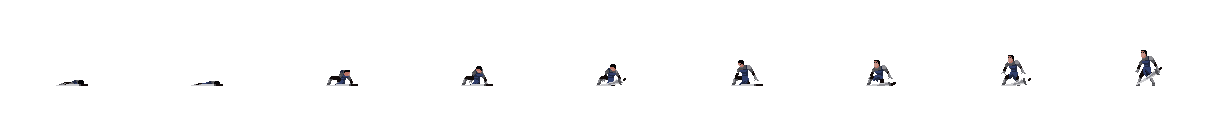
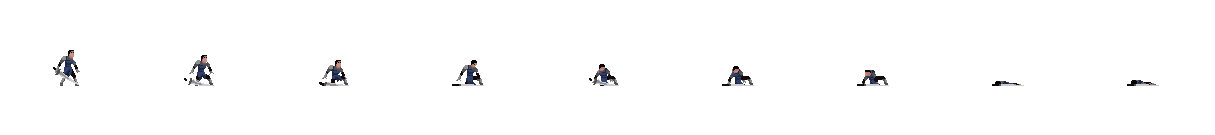
finished main game interactivity added animation for recieving attacks and death animation at the end of game and implemented DOM manipulation for start game page

diff --git a/index.js b/index.js
@@ -1,17 +1,17 @@
-// const gameArea = {
-//     button: document.querySelector('#initializer'),
-//     initial: document.querySelector('.starting'),
-//     game: document.querySelector('.hidden'),
-//     startFightingGame: function() {
-//         this.game.classList.toggle('hidden')
-//         this.initial.classList.add('to-hidden')
-//     }
-// }
-// // console.log(Gamearea.initial)
-// gameArea.button.addEventListener("click", function () {
-//     gameArea.startFightingGame()
-//     // console.log(gameArea)
-// });
+const gameArea = {
+    button: document.querySelector('#initializer'),
+    initial: document.querySelector('.starting'),
+    game: document.querySelector('.hidden'),
+    startFightingGame: function () {
+        this.game.classList.toggle('hidden')
+        this.initial.classList.add('to-hidden')
+    }
+}
+// console.log(Gamearea.initial)
+gameArea.button.addEventListener("click", function () {
+    gameArea.startFightingGame()
+    // console.log(gameArea)
+});
 const fightingCanvas = document.querySelector("#game-canvas");
 const c = fightingCanvas.getContext('2d');
 
@@ -82,8 +82,15 @@ const player1 = new Fighter({
         attack1: {
             ImageSrc: './images/samuraiMack/Attack1.png',
             framesMax: 6,
+        },
+        takehit: {
+            ImageSrc: './images/samuraiMack/Take Hit - white silhouette.png',
+            framesMax: 4,
+        },
+        death: {
+            ImageSrc: './images/samuraiMack/Death.png',
+            framesMax: 6,
         }
-
     }
 })
 const player2 = new Fighter({
@@ -128,6 +135,14 @@ const player2 = new Fighter({
         attack1: {
             ImageSrc: './images/warrior/Attack1.png',
             framesMax: 4,
+        },
+        takehit: {
+            ImageSrc: './images/warrior/GetHit.png',
+            framesMax: 3,
+        },
+        death: {
+            ImageSrc: './images/warrior/death.png',
+            framesMax: 9,
         }
     }
 
@@ -196,20 +211,20 @@ function animation() {
         player2.spriteChange('idle')
     }
     // PLAYER1 JUMPING // PLAYER1 JUMPING // PLAYER1 JUMPING
-    if (player2.velocity.y < -1) {
-        player1.spriteChange('jump')
+    if (player2.velocity.y < -5) {
+        player2.spriteChange('jump')
         // console.log(player1)
-    } else if (player2.velocity.y > 2) {
-        player1.spriteChange('fall')
+    } else if (player2.velocity.y > 5) {
+        player2.spriteChange('fall')
     }
     // COLLISION DETECTION // COLLISION DETECTION // COLLISION DETECTION 
     if (boxCollision({
         box1: player1,
         box2: player2
     }) && player1.isAttacking) {
+        player2.takehit()
         console.log('Beginning to understand collision detection')
         player1.isAttacking = false;
-        player2.health -= 10
         righthitbox.style.width = player2.health + '%'
     }
     if (boxCollision({
@@ -218,7 +233,7 @@ function animation() {
     }) && player2.isAttacking) {
         console.log('Player 2 attack detection')
         player2.isAttacking = false;
-        player1.health -= 10
+        player1.takehit()
         lefthitbox.style.width = player1.health + '%'
     }
     // END GAME // END GAME // END GAME // END GAME
@@ -231,36 +246,42 @@ function animation() {
 animation()
 
 window.addEventListener('keydown', function (event) {
-    switch (event.key) {
-        case 'd':
-            keybugfix.d.pressed = true
-            player1.lastKey = 'd'
-            break;
-        case 'a':
-            keybugfix.a.pressed = true
-            player1.lastKey = 'a'
-            break;
-        case 'w':
-            player1.velocity.y = -25
-            break;
-        case ' ':
-            player1.attack();
-            break;
-        case 'ArrowRight':
-            keybugfix.ArrowRight.pressed = true
-            player2.lastKey = 'ArrowRight'
-            break;
-        case 'ArrowLeft':
-            keybugfix.ArrowLeft.pressed = true
-            player2.lastKey = 'ArrowLeft'
-            break;
-        case 'ArrowUp':
-            player2.velocity.y = -25
-            break;
-        case 'k':
-            player2.attack();
-            // player2.isAttacking = true
-            break;
+    if (!player1.dead) {
+        switch (event.key) {
+            case 'd':
+                keybugfix.d.pressed = true
+                player1.lastKey = 'd'
+                break;
+            case 'a':
+                keybugfix.a.pressed = true
+                player1.lastKey = 'a'
+                break;
+            case 'w':
+                player1.velocity.y = -25
+                break;
+            case ' ':
+                player1.attack();
+                break;
+        }
+    }
+    if (!player2.dead) {
+        switch (event.key) {
+            case 'ArrowRight':
+                keybugfix.ArrowRight.pressed = true
+                player2.lastKey = 'ArrowRight'
+                break;
+            case 'ArrowLeft':
+                keybugfix.ArrowLeft.pressed = true
+                player2.lastKey = 'ArrowLeft'
+                break;
+            case 'ArrowUp':
+                player2.velocity.y = -25
+                break;
+            case 'k':
+                player2.attack();
+                // player2.isAttacking = true
+                break;
+        }
     }
 })
 window.addEventListener('keyup', function (event) {

diff --git a/js/classes.js b/js/classes.js
@@ -108,6 +108,7 @@ class Fighter extends Sprite {
         this.framesElapsed = 0;
         this.framesHold = 3;
         this.sprites = sprites
+        this.dead = false
 
         for (const sprite in this.sprites) {
             sprites[sprite].image = new Image();
@@ -117,8 +118,8 @@ class Fighter extends Sprite {
     }
     update() {
         this.draw();
+        if (!this.dead) this.framesCalculator()
         this.framesElapsed++;
-        this.framesCalculator();
         this.attackBox.position.x = this.position.x + this.attackBox.displacement.x;
         this.attackBox.position.y = this.position.y + this.attackBox.displacement.y;
         c.strokeStyle = "green"
@@ -144,8 +145,23 @@ class Fighter extends Sprite {
         }, 100);
         this.spriteChange('attack1')
     }
+    takehit() {
+        this.health -= 10
+        if (this.health <= 0) {
+            this.spriteChange('death');
+        } else {
+            this.spriteChange('takehit')
+        }
+    }
     spriteChange(sprite) {
+        if (this.image === this.sprites.death.image) {
+            if (this.framesCurrent === this.sprites.death.framesMax - 1)
+                this.dead = true
+            return
+        }
         if (this.image === this.sprites.attack1.image && this.framesCurrent < this.sprites.attack1.framesMax - 1)
+            return;
+        if (this.image === this.sprites.takehit.image && this.framesCurrent < this.sprites.takehit.framesMax - 1)
             return;
         switch (sprite) {
             case 'idle':
@@ -176,6 +192,18 @@ class Fighter extends Sprite {
                 (this.image !== this.sprites.attack1.image)
                 this.image = this.sprites.attack1.image
                 this.framesMax = this.sprites.attack1.framesMax
+                this.framesCurrent = 0
+                break;
+            case 'takehit':
+                (this.image !== this.sprites.takehit.image)
+                this.image = this.sprites.takehit.image
+                this.framesMax = this.sprites.takehit.framesMax
+                this.framesCurrent = 0
+                break;
+            case 'death':
+                (this.image !== this.sprites.death.image)
+                this.image = this.sprites.death.image
+                this.framesMax = this.sprites.death.framesMax
                 this.framesCurrent = 0
                 break;
         }

diff --git a/index.html b/index.html
@@ -8,20 +8,32 @@
     <title>Fighting Game</title>
   </head>
   <body>
-    <!-- <div class="starting">
+    <div class="starting">
       <div class="starting-top">
-        <button id ="initializer">FIGHT!</button>
+        <button id="initializer">FIGHT!</button>
       </div>
       <div class="starting-bottom">
         <div class="instructions">
-          <h1>Instructions:</h1> <br>
-          <h2>Control Player1 with WAD keys to move left right and jump! Attack with spacebar </h2>
-          <h2>Control player 2 with you arrow keys to move left right and jump! Attack with your K key</h2>
-          <p class="instructions-text"><br>
-          The object of the game is to defeat your opponent before the timer runs out, if nobody wins before the timer runs out the player with the most hitpoints by the end will be the winner, if both players have the same hitpoints by the time the timer runs out it is a Tie!</p>
+          <h1>Instructions:</h1>
+          <br />
+          <h2>
+            Control Player1 with WAD keys to move left right and jump! Attack
+            with spacebar
+          </h2>
+          <h2>
+            Control player 2 with you arrow keys to move left right and jump!
+            Attack with your K key
+          </h2>
+          <p class="instructions-text">
+            <br />
+            The object of the game is to defeat your opponent before the timer
+            runs out, if nobody wins before the timer runs out the player with
+            the most hitpoints by the end will be the winner, if both players
+            have the same hitpoints by the time the timer runs out it is a Tie!
+          </p>
         </div>
       </div>
-    </div> -->
+    </div>
     <div class="wrap hidden">
       <div class="main-health">
         <div class="hitpoints left-hitpoints">

diff --git a/styles.css b/styles.css
@@ -113,7 +113,7 @@ body {
 .instructions {
   height: 50%;
   width: 55%;
-  background-color: rgba(255,255,255,0.65);
+  background-color: rgba(255, 255, 255, 0.65);
   padding: 20px;
   border-radius: 20px;
   display: flex;
@@ -122,7 +122,6 @@ body {
   align-items: center;
   text-align: center;
   margin-bottom: 50px;
-
 }
 .instructions-text {
   font-size: 1.4rem;
@@ -138,9 +137,9 @@ body {
 #initializer:hover {
   background-color: red;
 }
-/* .hidden {
+.hidden {
   display: none;
 }
 .to-hidden {
   display: none;
-} */
+}
